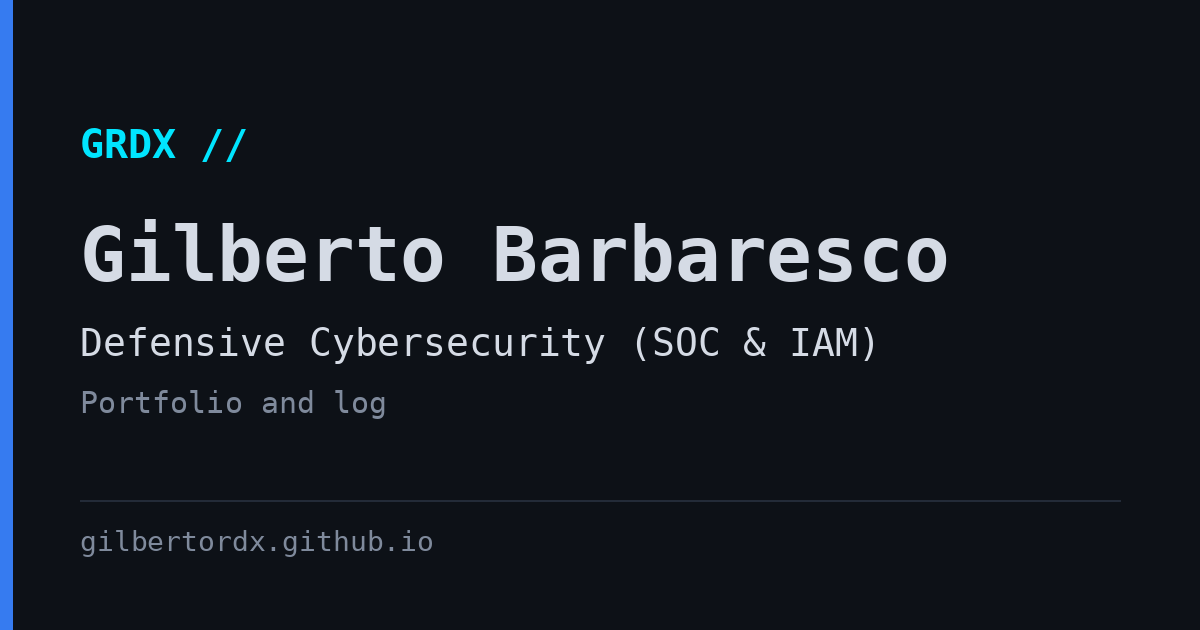
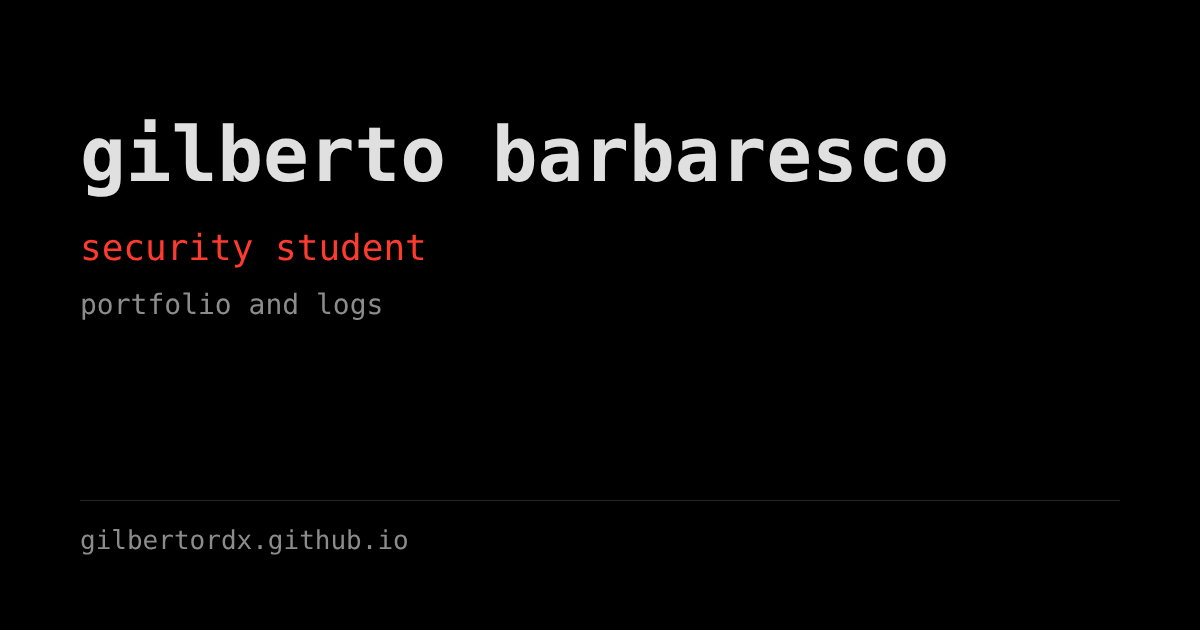
Remove GRDX: plain page titles, home tab 'security student', name in top bar, new preview image
Claude-Session: https://claude.ai/code/session_012K3KBvbvRTqvMeuQkkN8Ce

diff --git a/static/style.css b/static/style.css
@@ -1,4 +1,4 @@
-/* GRDX — mono type, plain text. Dark theme is pitch black and colorless,
+/* mono type, plain text. Dark theme is pitch black and colorless,
    like a .txt file; the light theme keeps the blue accents. */
 
 :root {

diff --git a/src/main.rs b/src/main.rs
@@ -1,4 +1,4 @@
-//! grdx: reads `site.toml`, `content/log/*.md` and `static/`, writes `dist/`.
+//! security-student: reads `site.toml`, `content/log/*.md` and `static/`, writes `dist/`.
 //!
 //!   cargo run            build the site
 //!   cargo run -- serve   build, then serve dist/ on http://127.0.0.1:4321
@@ -25,7 +25,7 @@ const MONTHS: [&str; 12] = [
 #[derive(Deserialize)]
 struct Site {
     brand: String,
-    /// Browser-tab title of the home page; falls back to "brand // name".
+    /// Browser-tab title of the home page; falls back to the name.
     #[serde(default)]
     home_title: String,
     name: String,
@@ -365,9 +365,9 @@ fn page(site: &Site, title: &str, desc: &str, active: &str, path: &str, body: &s
         })
         .collect();
     let full_title = if title.is_empty() {
-        if site.home_title.is_empty() { format!("{} // {}", site.brand, site.name) } else { site.home_title.clone() }
+        if site.home_title.is_empty() { site.name.clone() } else { site.home_title.clone() }
     } else {
-        format!("{} // {}", title, site.brand)
+        title.to_string()
     };
     let links: String = site
         .links
@@ -392,7 +392,7 @@ fn page(site: &Site, title: &str, desc: &str, active: &str, path: &str, body: &s
 <meta name="twitter:card" content="summary_large_image">
 <meta name="twitter:image" content="{base}/og.png">
 <link rel="canonical" href="{base}{path}">
-<link rel="alternate" type="application/rss+xml" title="{brand} log" href="/feed.xml">
+<link rel="alternate" type="application/rss+xml" title="{name} log" href="/feed.xml">
 <link rel="preconnect" href="https://fonts.googleapis.com">
 <link rel="preconnect" href="https://fonts.gstatic.com" crossorigin>
 <link href="https://fonts.googleapis.com/css2?family=JetBrains+Mono:wght@400;500;700&display=swap" rel="stylesheet">
@@ -647,8 +647,8 @@ fn build() -> Result<()> {
     write(
         "feed.xml",
         &format!(
-            "<?xml version=\"1.0\" encoding=\"UTF-8\"?>\n<rss version=\"2.0\"><channel><title>{} // log</title><link>{base}/</link><description>{}</description>\n{items}</channel></rss>\n",
-            esc(&site.brand),
+            "<?xml version=\"1.0\" encoding=\"UTF-8\"?>\n<rss version=\"2.0\"><channel><title>{} log</title><link>{base}/</link><description>{}</description>\n{items}</channel></rss>\n",
+            esc(&site.name),
             esc(&site.description),
         ),
     )?;

diff --git a/README.md b/README.md
@@ -1,4 +1,4 @@
-# grdx
+# security-student
 
 Portfolio and log. A small static site generator in Rust: no framework, three dependencies.
 
